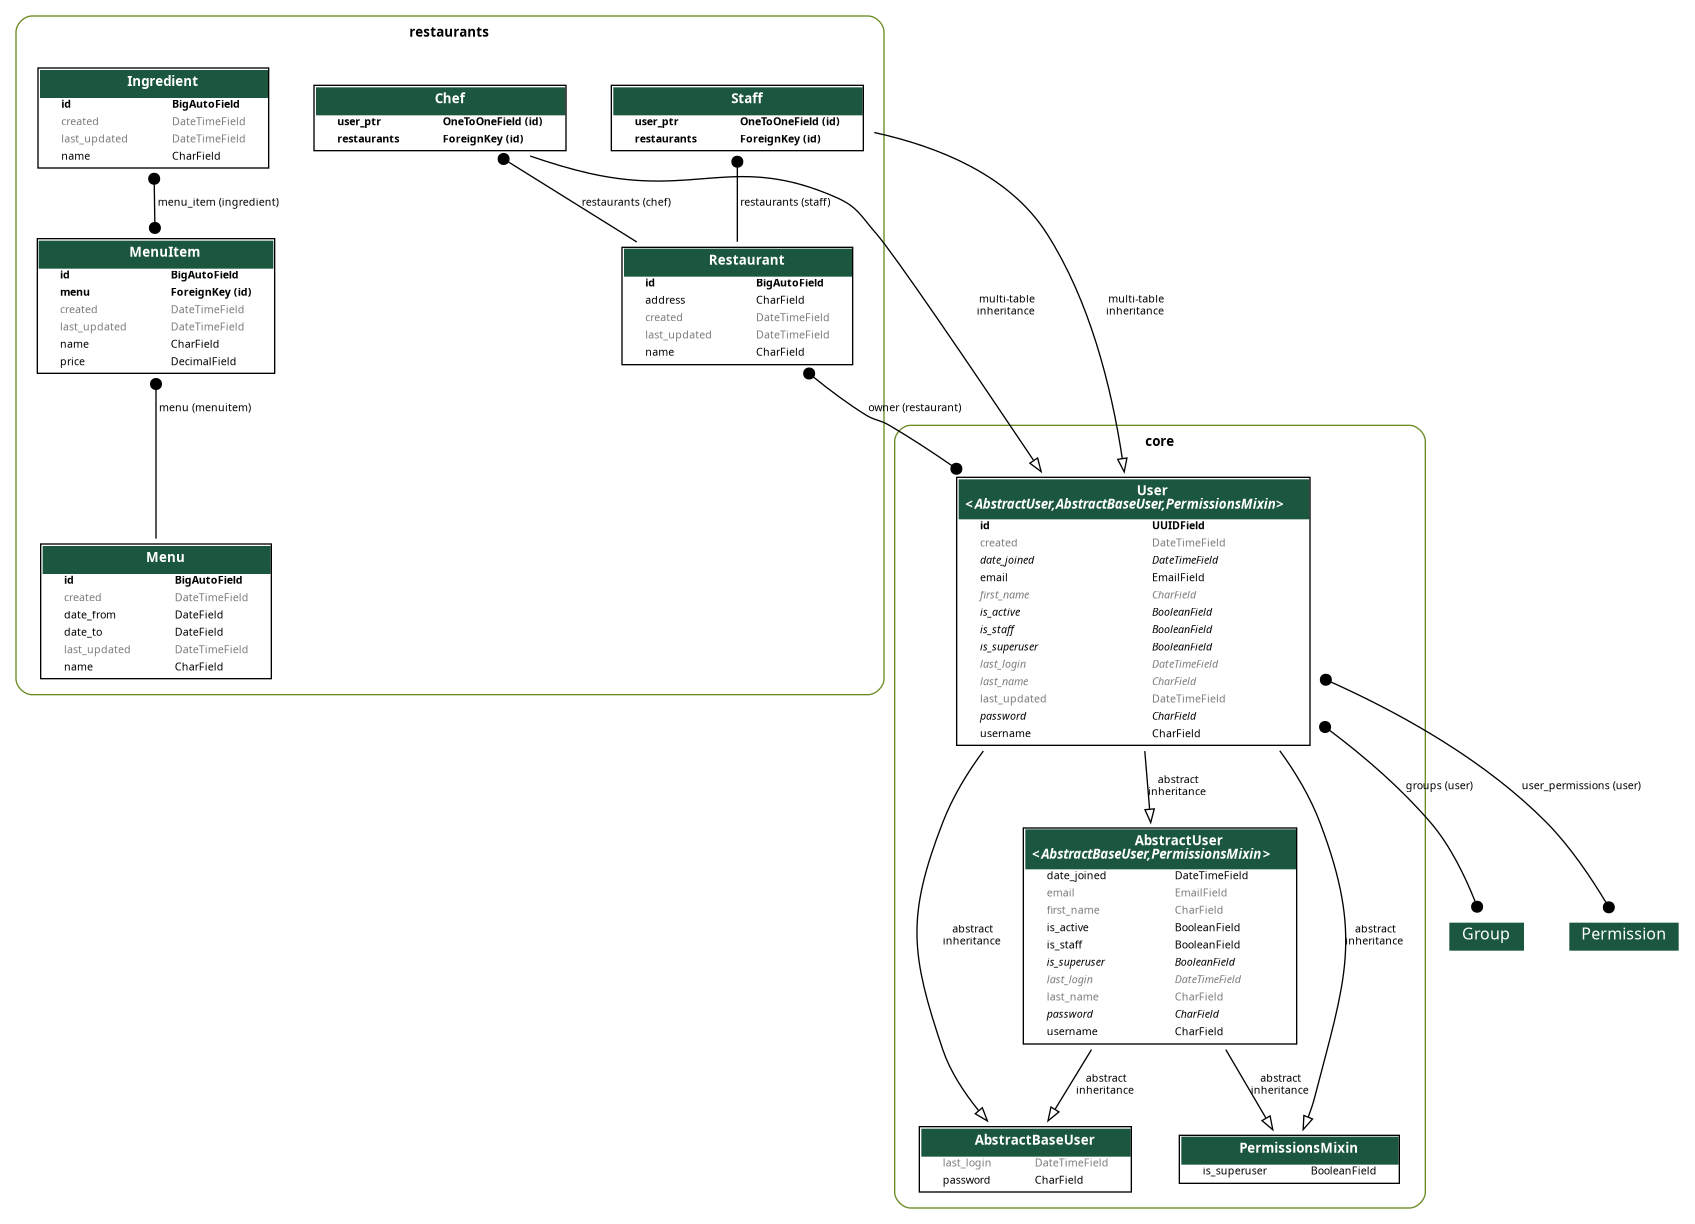
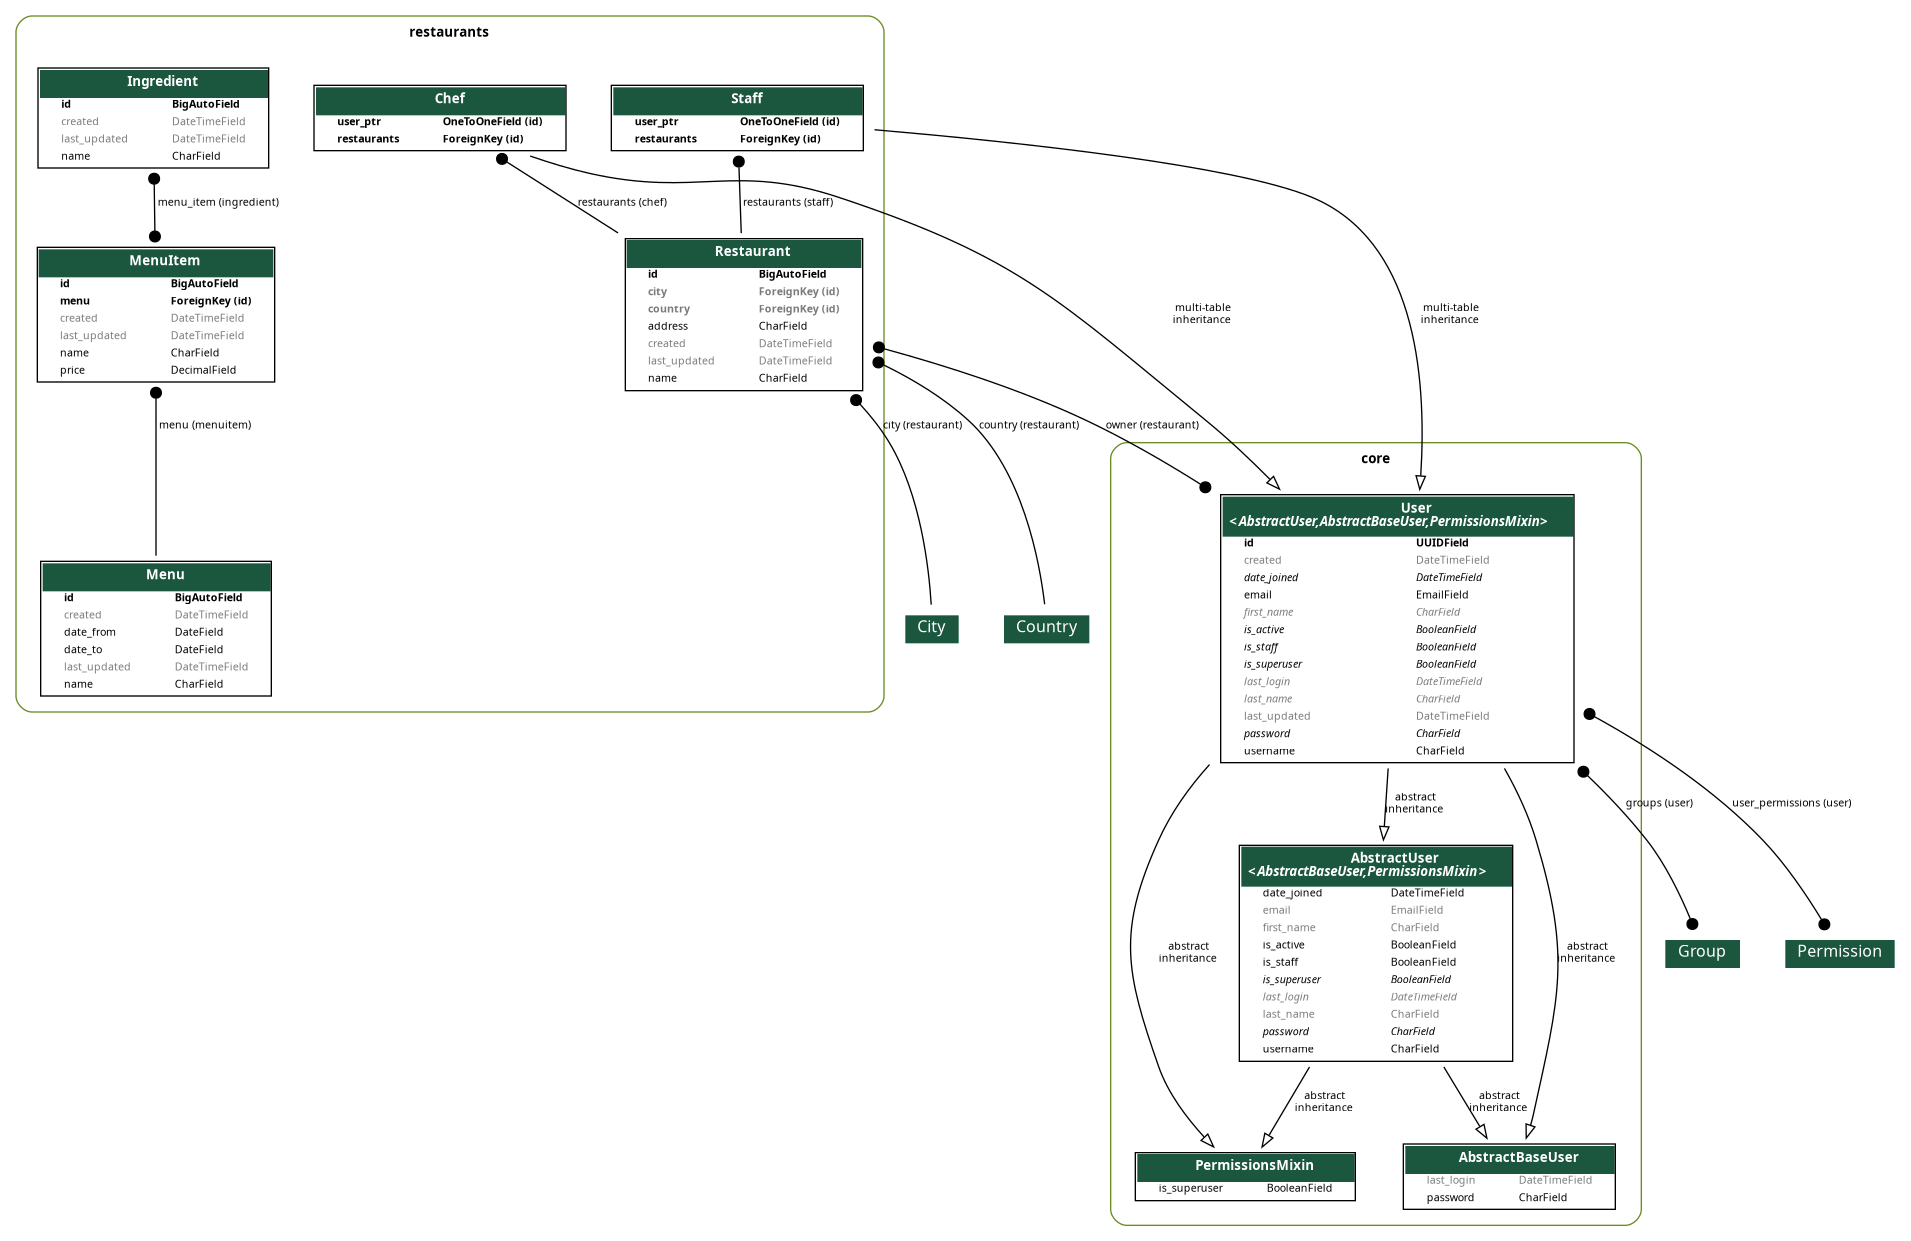
Cities Light

diff --git a/config/settings/djext.py b/config/settings/djext.py
@@ -8,9 +8,9 @@ INSTALLED_APPS += [
 GRAPH_MODELS = {
     'app_labels': [
         "core",
-        # "restaurant",
-        # "world",
-        # "customers",
+        "cities_light",
+        "restaurant",
+        "geo",
         # "inventory",
         # "orders",
     ],

diff --git a/config/settings/geo.py b/config/settings/geo.py
@@ -5,7 +5,7 @@ INSTALLED_APPS += [
     "geo",
 ]
 
-CITIES_LIGHT_APP_NAME = "geo"
+# CITIES_LIGHT_APP_NAME = "geo"
 CITIES_LIGHT_TRANSLATION_LANGUAGES = ["en", ]
 CITIES_LIGHT_INCLUDE_COUNTRIES = ["NG", ]
 CITIES_LIGHT_INCLUDE_CITY_TYPES = [
